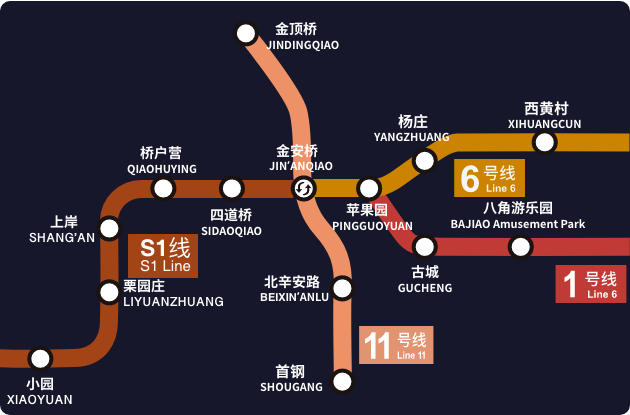
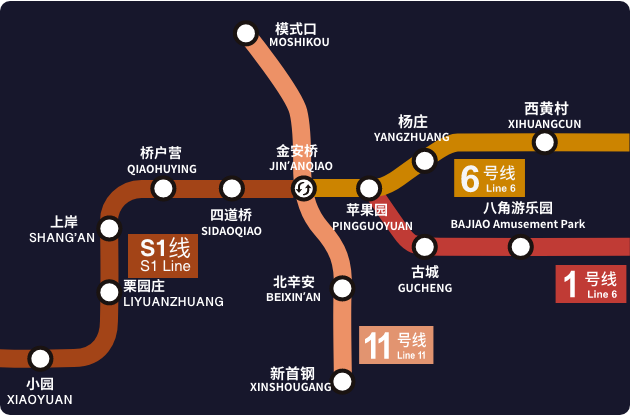
修改样式

Changed region(s): [[0.3921, 0.8675, 0.5429, 0.9542], [0.4222, 0.0289, 0.5429, 0.1446], [0.3921, 0.6651, 0.5429, 0.7229]]

diff --git a/src/components/danger-3.vue b/src/components/danger-3.vue
@@ -6,7 +6,7 @@
         <p>
           <span class="tx2">
             <img src="../assets/people-left.png" alt="" />
-           4min
+            4min
           </span>
           <span class="tx3">EXIT</span>
         </p>
@@ -16,7 +16,7 @@
         <h2 class="danger-text2">Red Rainstorm Warning</h2>
         <div class="danger-box">
           <div class="danger-line"></div>
-          <span>预计10min后最大水位</span>
+          <span>预计5分钟后车站关闭</span>
         </div>
         <img class="danger-person" src="../assets/danger-person.png" alt="" />
         <!-- <span class="current-wave">当前水位</span> -->

diff --git a/src/components/danger-2.vue b/src/components/danger-2.vue
@@ -6,7 +6,7 @@
         <p>
           <span class="tx2">
             <img src="../assets/people-left.png" alt="" />
-           4min
+            4min
           </span>
           <span class="tx3">EXIT</span>
         </p>
@@ -19,7 +19,7 @@
         <h2 class="danger-text2">Red Rainstorm Warning</h2>
         <div class="danger-box">
           <div class="danger-line"></div>
-          <span>预计10min后最大水位</span>
+          <span>预计5分钟后车站关闭</span>
         </div>
         <img
           class="inverted danger-person"

diff --git a/src/components/flood-2.vue b/src/components/flood-2.vue
@@ -11,12 +11,12 @@
           <span class="tx3">EXIT</span>
         </p>
         <arrow-left-right></arrow-left-right>
-      
+
         <h2 class="danger-text warning-text">暴雨黄色预警</h2>
         <h2 class="danger-text2 warning-text">Yellow Rainstorm Warning</h2>
         <div class="danger-box waring-box">
           <div class="danger-line"></div>
-          <span>预计10min后最大水位</span>
+          <span>预计5分钟后车站关闭</span>
         </div>
         <img
           class="danger-person inverted"

diff --git a/src/components/flood-3.vue b/src/components/flood-3.vue
@@ -15,7 +15,7 @@
         <h2 class="danger-text2 warning-text">Yellow Rainstorm Warning</h2>
         <div class="danger-box waring-box">
           <div class="danger-line"></div>
-          <span>预计10min后最大水位</span>
+          <span>预计5分钟后车站关闭</span>
         </div>
         <img class="danger-person" src="../assets/danger-person.png" alt="" />
         <!-- <span class="current-wave current-wave-warning">当前水位</span> -->

diff --git a/src/components/flood-4.vue b/src/components/flood-4.vue
@@ -12,7 +12,7 @@
         <h2 class="danger-text2 warning-text">Yellow Rainstorm Warning</h2>
         <div class="danger-box waring-box">
           <div class="danger-line"></div>
-          <span>预计10min后最大水位</span>
+          <span>预计5分钟后车站关闭</span>
         </div>
         <img class="danger-person" src="../assets/danger-person.png" alt="" />
         <!-- <span class="current-wave current-wave-warning">当前水位</span> -->

diff --git a/src/components/pis.vue b/src/components/pis.vue
@@ -104,10 +104,10 @@ export default {
   },
   computed: {
     direction() {
-      return this.$store.state.direction == 1 ? '金顶桥' : '首钢';
+      return this.$store.state.direction == 1 ? '模式口' : '新首钢';
     },
     directionEn() {
-      return this.$store.state.direction == 1 ? 'Jinding Qiao' : 'Shou Gang';
+      return this.$store.state.direction == 1 ? 'Moshi Kou' : 'Xinshou Gang';
     },
     lineInfo() {
       // 获取上下行

diff --git a/src/components/danger-4.vue b/src/components/danger-4.vue
@@ -12,7 +12,7 @@
         <h2 class="danger-text2">Red Rainstorm Warning</h2>
         <div class="danger-box">
           <div class="danger-line"></div>
-          <span>预计10min后最大水位</span>
+          <span>预计5分钟后车站关闭</span>
         </div>
         <img class="danger-person" src="../assets/danger-person.png" alt="" />
         <!-- <span class="current-wave">当前水位</span> -->

diff --git a/src/theme/wave.less b/src/theme/wave.less
@@ -28,7 +28,7 @@
   left: 0px;
 }
 .wave.danger{
-  bottom: -50px;
+  bottom: -180px;
 }
 .danger-person{
   position: absolute;
@@ -148,10 +148,10 @@
 .danger-box {
   width: 620px;
   position: absolute;
-  bottom: 270px;
+  bottom: 150px;
   .danger-line {
     width: 100%;
-    border-top: 3px dashed salmon;
+    // border-top: 3px dashed salmon;
   }
   span {
     background: #ff2f2f;

diff --git a/src/components/wave.vue b/src/components/wave.vue
@@ -5,6 +5,7 @@
       class="wave-container wave-container2"
       v-if="$store.state.emergencyState === 4"
     ></div>
+    <div class="wave-line"></div>
   </div>
 </template>
 <style>
@@ -72,5 +73,12 @@
   100% {
     left: -200px;
   }
+}
+.wave-line {
+  width: 100%;
+  height: 4px;
+  background: #ffff48;
+  position: absolute;
+  bottom: 240px;
 }
 </style>

diff --git a/src/components/flood-1.vue b/src/components/flood-1.vue
@@ -15,7 +15,7 @@
         <h2 class="danger-text2 warning-text">Yellow Rainstorm Warning</h2>
         <div class="danger-box waring-box">
           <div class="danger-line"></div>
-          <span>预计10min后最大水位</span>
+          <span>预计5分钟后车站关闭</span>
         </div>
         <img
           class="inverted danger-person"

diff --git a/src/components/danger-1.vue b/src/components/danger-1.vue
@@ -15,7 +15,7 @@
         <h2 class="danger-text2">Red Rainstorm Warning</h2>
         <div class="danger-box">
           <div class="danger-line"></div>
-          <span>预计10min后最大水位</span>
+          <span>预计5分钟后车站关闭</span>
         </div>
         <img
           class="inverted danger-person"
